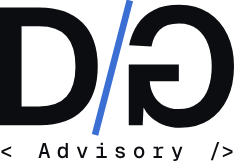
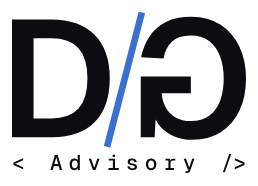
rows 22q + 22s: the DG Advisory credit at the foot of the customer's order confirmation, NL/RO by the order's language; the mark on a white plate in both order mails for phones in dark mode

diff --git a/api/order.js b/api/order.js
@@ -49,6 +49,7 @@ const T = {
     pay: 'Betalen bij afhaling: cash, Bancontact, Payconiq, Visa of Mastercard',
     payDelivery: 'Betalen bij levering: cash, Bancontact, Payconiq, Visa of Mastercard',
     hours: 'Openingsuren',
+    madeBy: 'Website en online bestellen van Slagerij John: gemaakt door DanGabriel Advisory.', // row 22q, §5.20 „30.10”
   },
   ro: {
     // RO orders (stage 9): the menu's word as in the shop's first line below
@@ -74,6 +75,7 @@ const T = {
     pay: 'Plata la ridicare: numerar, Bancontact, Payconiq, Visa sau Mastercard',
     payDelivery: 'Plata la livrare: numerar, Bancontact, Payconiq, Visa sau Mastercard',
     hours: 'Program',
+    madeBy: 'Site-ul și comenzile online ale Măcelăriei John: făcute de DanGabriel Advisory.', // also the shop mail's foot, whatever the order's language
   },
 };
 
@@ -145,13 +147,13 @@ const hoursText = (hours, locale) =>
 // the page's bottom with room to spare. If the foot lands alone on a second sheet, this number is too high.
 const SHEET_PX = 820;
 const shopLogo = `<img src="${entity.url}/mail/slagerij-john@3x.png" width="76" height="76" alt="${esc(entity.name)}" style="display:block;border:0">`;
-// the shop's mail only, small, under a thin rule (row 22k (e), Dan 30.10 11:55; D-54's block, mail-sized): a mail client
-// needs an absolute URL and a PNG
-const MADE_BY = 'Site-ul și comenzile online ale Măcelăriei John: făcute de DanGabriel Advisory.';
-const madeBy =
+// the foot of both mails, small, under a thin rule (row 22k (e), Dan 30.10 11:55; row 22q, 14:2x: the customer's too, credit
+// and link only; D-54's block, mail-sized): a mail client needs an absolute URL and a PNG. Row 22s: the PNG is the mark
+// on a white plate, 4 px around it, so a phone in dark mode still shows it; on a white mail the plate is invisible.
+const madeByBlock = (line) =>
   `<table role="presentation" style="border-collapse:collapse;width:100%;max-width:640px;margin:24px 0 0;border-top:1px solid #D9CDB8"><tr>` +
-  `<td style="width:78px;padding:12px 14px 0 0;vertical-align:middle"><img src="${entity.url}/mail/dga-advisory@3x.png" width="78" height="56" alt="DanGabriel Advisory" style="display:block;border:0"></td>` +
-  `<td style="padding:12px 0 0;vertical-align:middle;font-size:12px;line-height:1.4;color:#6B5E52">${esc(MADE_BY)}<br><a href="https://dg-advisory.net" style="color:#6B5E52">dg-advisory.net</a></td></tr></table>`;
+  `<td style="width:86px;padding:12px 14px 0 0;vertical-align:middle"><img src="${entity.url}/mail/dga-advisory@3x.png" width="86" height="62" alt="DanGabriel Advisory" style="display:block;border:0"></td>` +
+  `<td style="padding:12px 0 0;vertical-align:middle;font-size:12px;line-height:1.4;color:#6B5E52">${esc(line)}<br><a href="https://dg-advisory.net" style="color:#6B5E52">dg-advisory.net</a></td></tr></table>`;
 
 function mails(o, hours) {
   const t = T[o.locale];
@@ -166,7 +168,7 @@ function mails(o, hours) {
   const shop = {
     subject: t.subjectShop(o),
     replyTo: o.email,
-    text: [header, '', o.name, p.text, '', ...who, remarks, '', `${t.call}: tel:${o.phone.replace(/[^\d+]/g, '')}`, `${t.whatsapp}: https://wa.me/${intl(o.phone)}`, '', MADE_BY, 'dg-advisory.net'].filter((x) => x !== '').join('\n'),
+    text: [header, '', o.name, p.text, '', ...who, remarks, '', `${t.call}: tel:${o.phone.replace(/[^\d+]/g, '')}`, `${t.whatsapp}: https://wa.me/${intl(o.phone)}`, '', T.ro.madeBy, 'dg-advisory.net'].filter((x) => x !== '').join('\n'),
     html:
       `<div style="font-family:Arial,sans-serif;color:#1A1511">` +
       `<table role="presentation" height="${SHEET_PX}" style="border-collapse:collapse;width:100%;max-width:640px;height:${SHEET_PX}px"><tr><td style="padding:0;vertical-align:top">` +
@@ -177,18 +179,18 @@ function mails(o, hours) {
       `<p style="margin:16px 0 0;font-size:16px;line-height:1.5">${who.map(esc).join('<br>')}${remarks ? `<br>${esc(remarks).replace(/\n/g, '<br>')}` : ''}</p>` +
       `<p style="margin:20px 0 0"><a href="tel:${esc(o.phone.replace(/[^\d+]/g, ''))}" style="display:inline-block;padding:12px 20px;border-radius:999px;background:#F2C12E;color:#1A1511;font-weight:700;text-decoration:none">${esc(t.call)}</a> ` +
       `<a href="https://wa.me/${intl(o.phone)}" style="display:inline-block;padding:12px 20px;border-radius:999px;border:1px solid #1A1511;color:#1A1511;font-weight:700;text-decoration:none">${esc(t.whatsapp)}</a></p>` +
-      `</td></tr><tr><td style="height:1px;padding:0;vertical-align:bottom">${madeBy}</td></tr></table></div>`,
+      `</td></tr><tr><td style="height:1px;padding:0;vertical-align:bottom">${madeByBlock(T.ro.madeBy)}</td></tr></table></div>`,
   };
   const foot = [o.method === 'delivery' ? t.payDelivery : t.pay, t.legal, `${entity.name} · ${entity.address.streetAddress}, ${entity.address.postalCode} ${entity.address.addressLocality} · ${entity.telephoneDisplay}`, `${t.hours}: ${hoursText(hours, o.locale)}`];
   const customer = {
     subject: t.subjectCustomer(o),
     replyTo: entity.email,
-    text: [o.ref, '', s.text, '', t.confirm, '', ...foot].join('\n'),
+    text: [o.ref, '', s.text, '', t.confirm, '', ...foot, '', t.madeBy, 'dg-advisory.net'].join('\n'),
     html:
       `<div style="font-family:Arial,sans-serif;color:#1A1511">` +
       `<p style="margin:0 0 16px;font-size:17px;font-weight:700">${esc(o.ref)}</p>${s.html}` +
       `<p style="margin:16px 0 0">${esc(t.confirm)}</p>` +
-      `<p style="margin:16px 0 0;font-size:13px;line-height:1.5;color:#5E534A">${foot.map(esc).join('<br>')}</p></div>`,
+      `<p style="margin:16px 0 0;font-size:13px;line-height:1.5;color:#5E534A">${foot.map(esc).join('<br>')}</p>${madeByBlock(t.madeBy)}</div>`,
   };
   return { shop, customer };
 }
